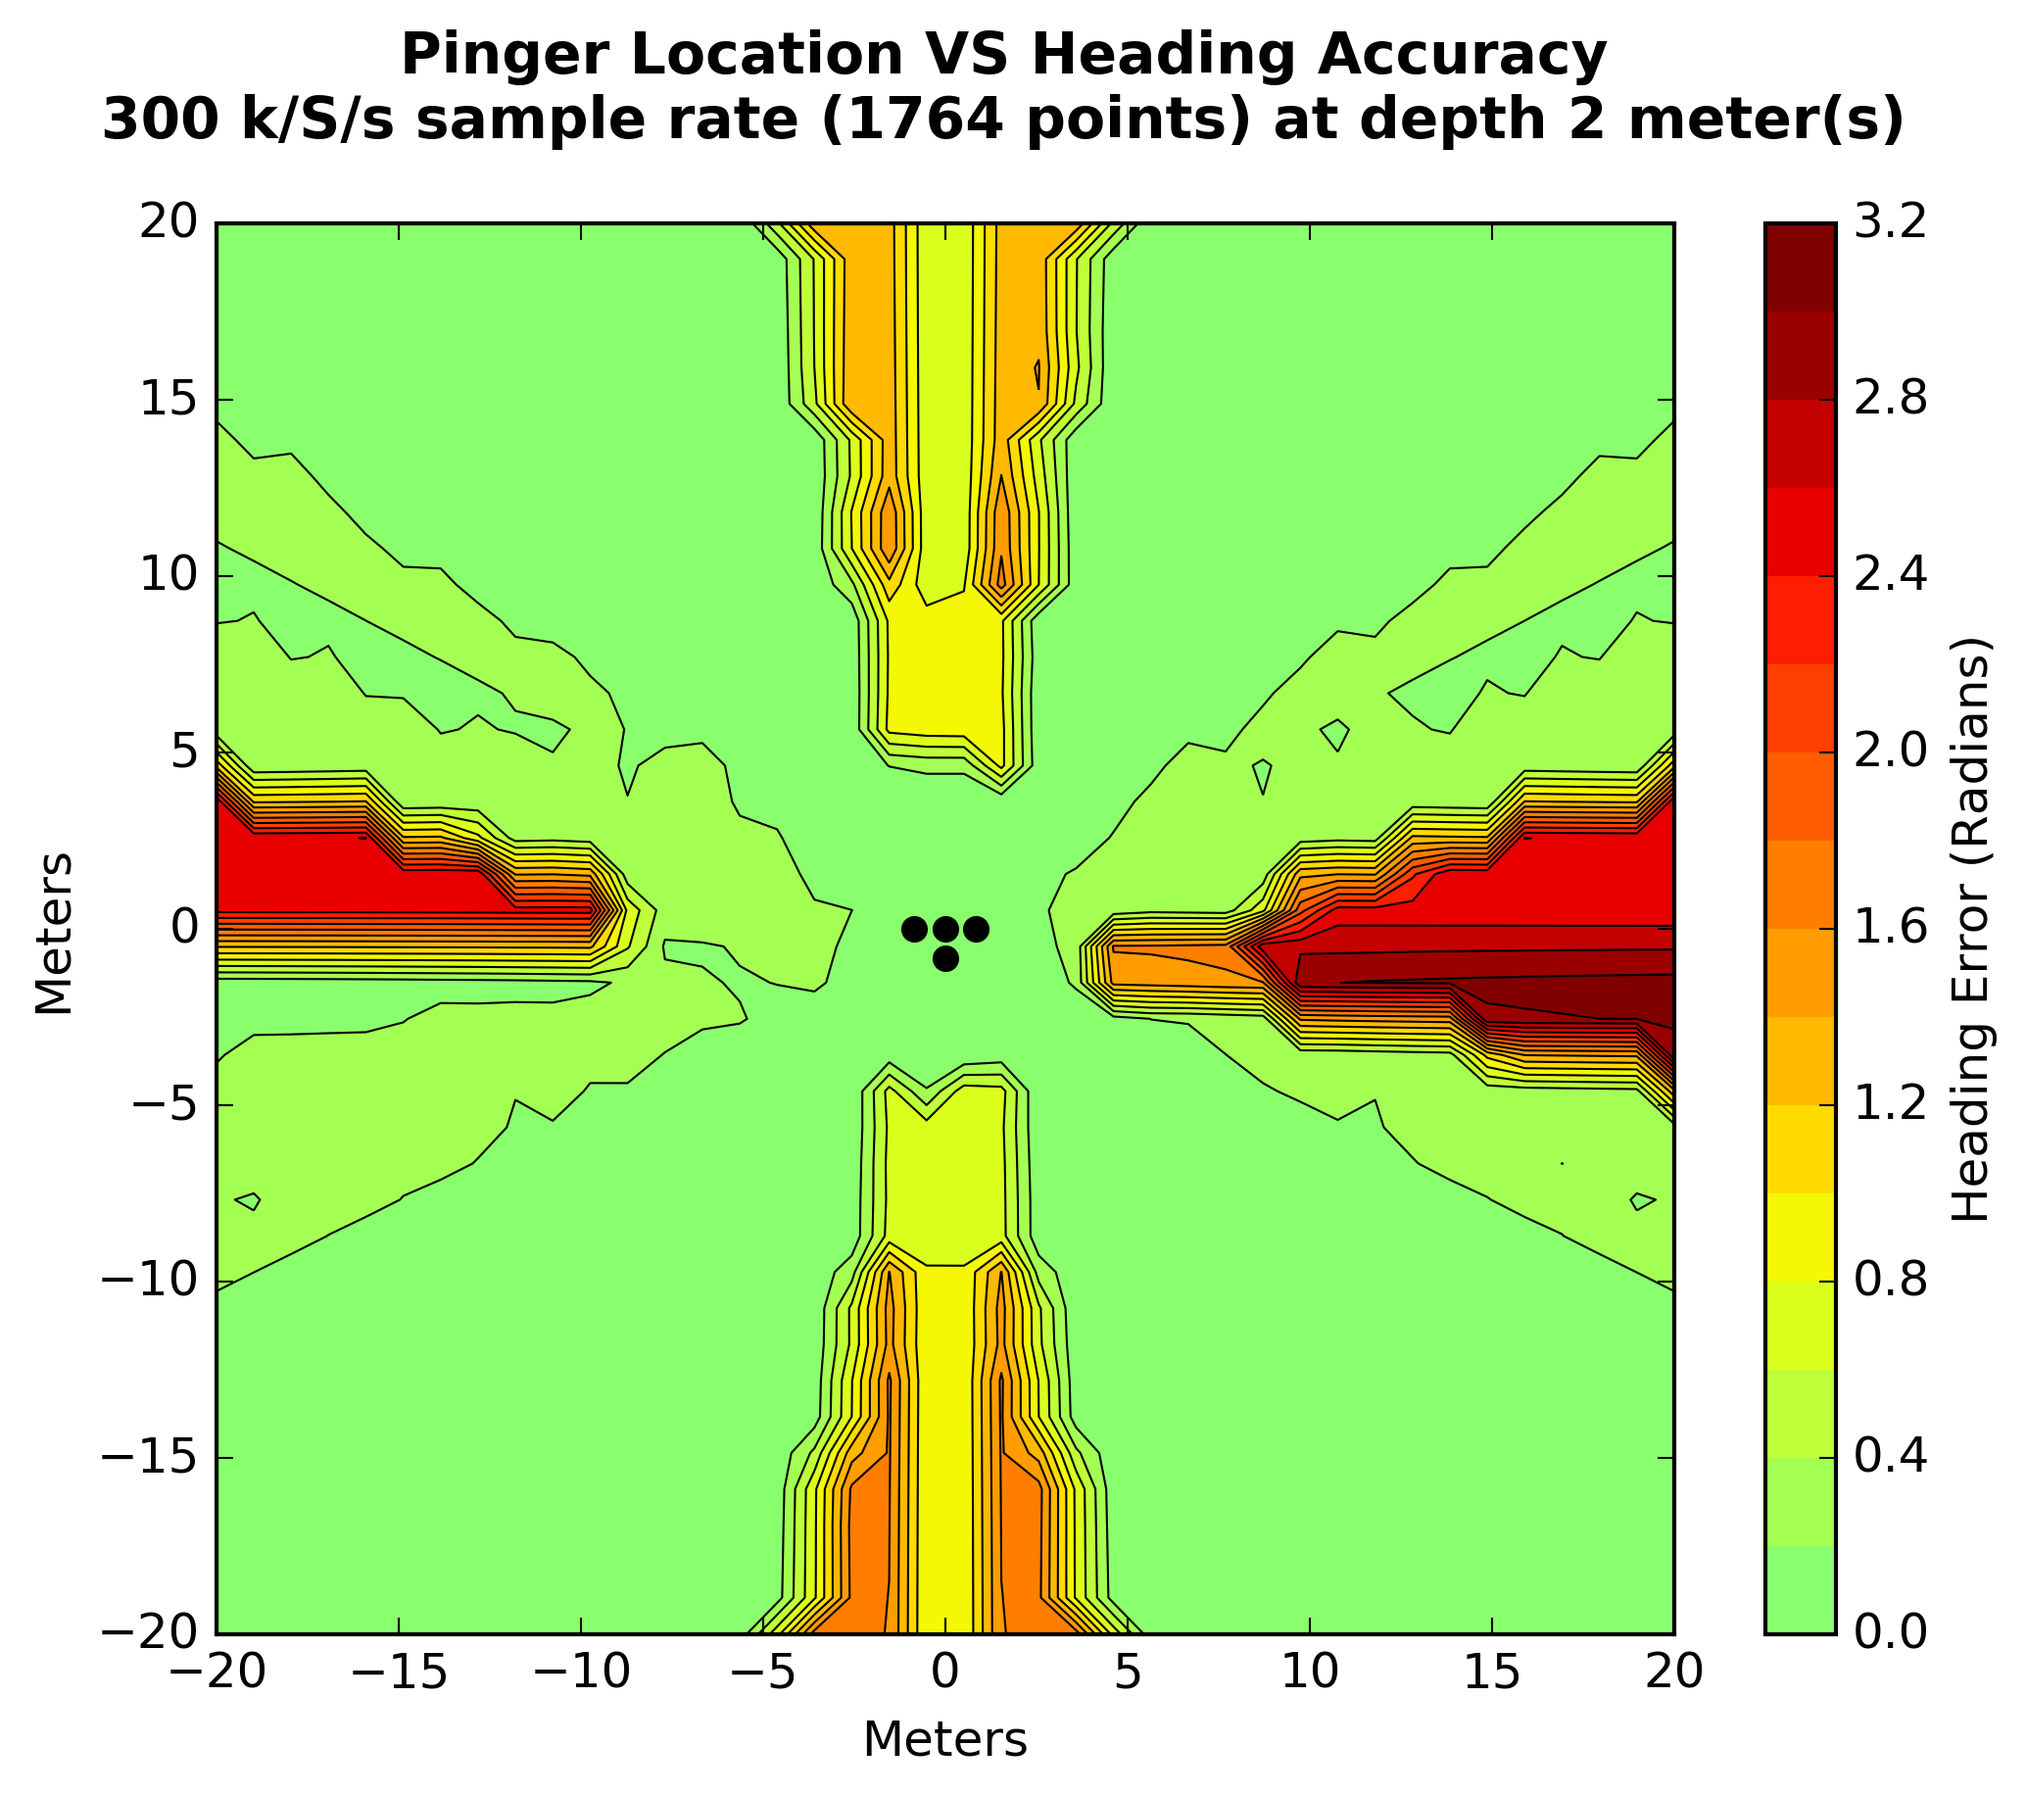
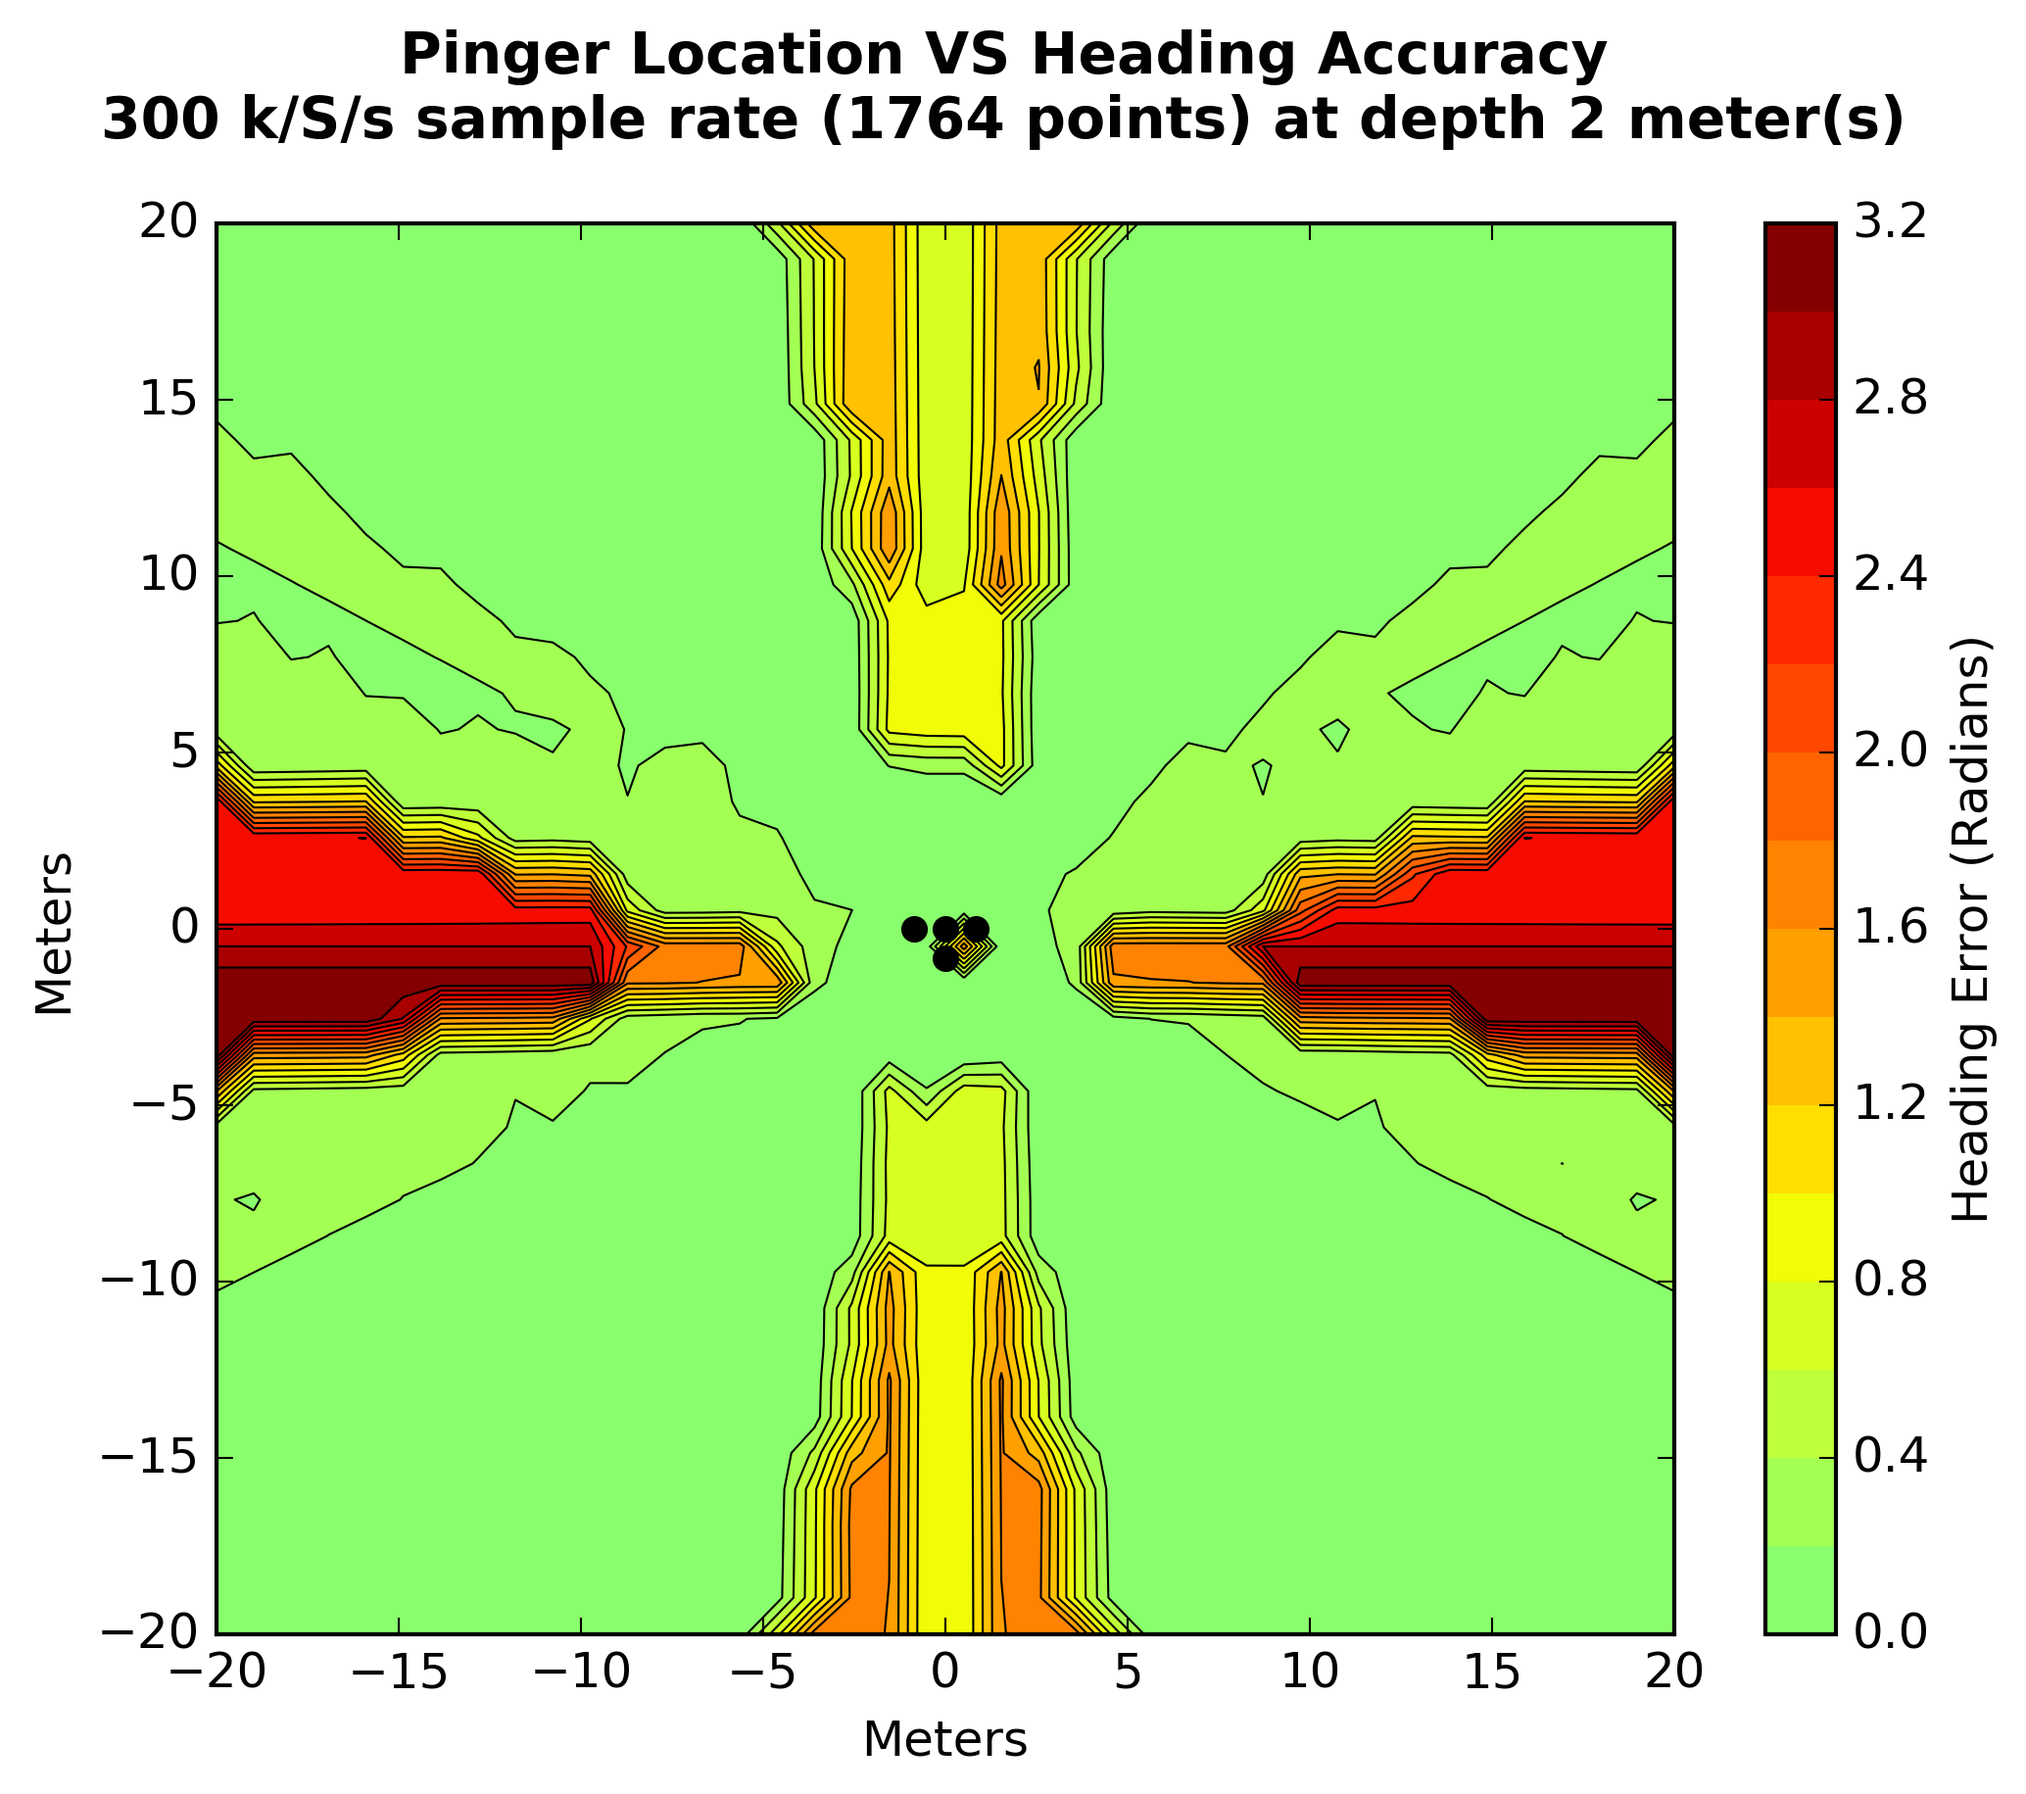
PINGER_TRACKER: plotting graphs, more accurate, heading home

Changed region(s): [[0.0928, 0.4981, 0.4023, 0.6226], [0.5261, 0.4981, 0.8356, 0.6226], [0.4642, 0.4981, 0.4952, 0.5603]]

diff --git a/pinger_tracker/nodes/acoustic_monte.py b/pinger_tracker/nodes/acoustic_monte.py
@@ -59,21 +59,28 @@ class monte(object):
         self.actual_z = ref2.actual_position[2]  
 
         #os.system('clear')
-        if self.crane_x != 0:
+        crane_heading = np.arctan2(self.crane_y,self.crane_x) + np.pi
+
+        '''if self.crane_x != 0:
             crane_heading = np.arctan2(self.crane_y,self.crane_x) + np.pi
         else:
-            crane_heading = 0.0
-        print "calculated_heading: %f radians" % crane_heading
+            crane_heading = 0.0'''
+        #print "calculated_heading: %f radians" % crane_heading
+
+        actual_heading = np.arctan2(self.actual_y,self.actual_x)+ np.pi
+        '''print actual_heading
 
         if self.actual_x != 0:
             actual_heading = np.arctan2(self.actual_y,self.actual_x)+ np.pi
         else:
-            actual_heading = 0.0
-        print "actual_heading: %f radians" % actual_heading
+            actual_heading = 0.0'''
+        #print "actual_heading: %f radians" % actual_heading
 
 
-
-        if abs(actual_heading-(crane_heading + 2*np.pi)) < abs(actual_heading - crane_heading):
+        if self.crane_x == 0 and self.crane_y == 0:
+            heading_error_radian = np.pi
+            heading_error_percent = 50.0
+        elif abs(actual_heading-(crane_heading + 2*np.pi)) < abs(actual_heading - crane_heading):
             heading_error_radian = abs(actual_heading-(crane_heading + 2*np.pi))
             heading_error_percent = abs((actual_heading-(crane_heading + 2*np.pi))/(2*np.pi)*100)
         else:
@@ -81,7 +88,7 @@ class monte(object):
             heading_error_percent = abs((actual_heading-crane_heading)/(2*np.pi)*100)
 
         self.head_error = heading_error_radian
-        print "{}\theading_error: %0.4f radians {}%f%%{}".format(self.W,self.O,self.W) % (heading_error_radian, heading_error_percent)
+        #print "{}\theading_error: %0.4f radians {}%f%%{}".format(self.W,self.O,self.W) % (heading_error_radian, heading_error_percent)
 
         crane_horizontal_distance = np.sqrt(self.crane_x**2+self.crane_y**2)
         actual_horizontal_distance = np.sqrt(self.actual_x**2+self.actual_y**2)
@@ -181,12 +188,12 @@ class monte(object):
         #self.file = csv.writer(open(file_name,'w'))
         #self.file.writerow(["Sample Rate", "Heading Error (rad)", "Declination Error (rad)", "Distance Error percent", "Depth: %i mm" % z])
 
-        x = 0
-        y = 1000
+        x = -19000
+        y = -1000
         z = -2000
         self.calculate_error(x,y,z)
 
-        x = 0
+        x = 19000
         y = -1000
         z = -2000
         self.calculate_error(x,y,z)
@@ -196,13 +203,15 @@ class monte(object):
         self.declination_error_sum = 0.0
         self.distance_error_sum = 0.0
 
-        '''resolution = 500
-        for x in range(-20000,20000+resolution+1,resolution):
-            for y in range(-20000,20000+resolution+1,resolution):
-                self.sample_rate = 300                
+        resolution = 2000
+
+        for x in range(-20000,20001,resolution):
+            for y in range(-20000,20001,resolution):
+                self.sample_rate = 1000                
 
                 z = -2000
                 self.calculate_error(x,y,z)
+
                 print x
 
                 x_list = x_list + [x]
@@ -214,15 +223,19 @@ class monte(object):
         yi = np.linspace(-20, 20, 40)
         npts = len(x_list)
 
+
         x_list = [x / 1000 for x in x_list]
         y_list = [y / 1000 for y in y_list]
 
         # grid the data.
         zi = griddata(x_list, y_list, z_list, xi, yi, interp='linear')
         # contour the gridded data, plotting dots at the nonuniform data points.
+        levels = [0,0.05,0.1,0.15,0.2,0.25,0.3,0.35,0.4,0.45,0.5,0.55,0.6,0.65,0.7,0.75,0.8,0.85,0.9,0.95,1.0,6.30]
         CS = plt.contour(xi, yi, zi, 15, linewidths=0.5, colors='k')
-        CS = plt.contourf(xi, yi, zi, 15,
-                          vmax=abs(zi).max(), vmin=-abs(zi).max())
+        CS = plt.contourf(xi, yi, zi, levels, #100,
+                          vmax=1.04, vmin=0)
+                          #vmax=abs(zi).max(), vmin=-abs(zi).max())
+
         cb = plt.colorbar()
         cb.set_label(label='Heading Error (Radians)')#,size=18)
         # plot data points.
@@ -244,9 +257,9 @@ class monte(object):
 
         plt.suptitle('%s\n%s' % (figure_title,figure_sub_title), weight = 'bold', size = 14, x = 0.46, y = 1.01, horizontalalignment='center')
 
-        plt.savefig('Tshape%i_d%i_s%i.png' % (self.sample_rate,z,npts), dpi=300,
+        plt.savefig('Tshape_hi_res_%i_d%i_s%i.png' % (self.sample_rate,z,npts), dpi=300,
                      orientation = 'landscape', bbox_inches='tight')
-        plt.show()'''
+        plt.show()
 
         #while not rospy.is_shutdown():
 

diff --git a/pinger_tracker/nodes/crane_method.py b/pinger_tracker/nodes/crane_method.py
@@ -28,6 +28,7 @@ class solver():
         self.hydro3 = [data.hydro3_xyz[0],data.hydro3_xyz[1],data.hydro3_xyz[2]]    
 
     def calc_vals (self, data):
+        #print data
         x,y,z = self.crane_solver(data)
 
         print "calculated x: %0.3f y: %0.3f" % (x,y)
@@ -42,7 +43,7 @@ class solver():
     def actu_vals (self, data):
         x,y,z = self.crane_solver(data)
 
-        print "actual x: %0.3f y: %0.3f" % (x,y)
+        #print "actual x: %0.3f y: %0.3f" % (x,y)
 
         self.crane_pub.publish(Crane_pos(
             header=Header(stamp=rospy.Time.now(),
@@ -104,8 +105,17 @@ class solver():
 
         D2 = holder - holder2 
 
+        print A1
+        print B2
+        print A2
+        print B1
+
+
         x =  (B1*D2-B2*D1)/(A1*B2-A2*B1) if (A1*B2-A2*B1) != 0 else 0  # eqn (15)
         y = -(A1*D2-A2*D1)/(A1*B2-A2*B1) if (A1*B2-A2*B1) != 0 else 0
+
+        #print x
+        #print y
 
         myx = x 
         myy = y        
@@ -140,7 +150,7 @@ class solver():
 
     def __init__(self):
         rospy.init_node('crane_method')
-        rospy.Subscriber('/hydrophones/actualtimestamps', Actual_time_stamps, self.actu_vals)
+        #rospy.Subscriber('/hydrophones/actual_time_stamps', Actual_time_stamps, self.actu_vals)
         rospy.Subscriber('/hydrophones/calculated_time_stamps', Calculated_time_stamps, self.calc_vals)
         rospy.Subscriber('hydrophones/hydrophone_locations', Hydrophone_locations, self.hydrophone_locations)
 
